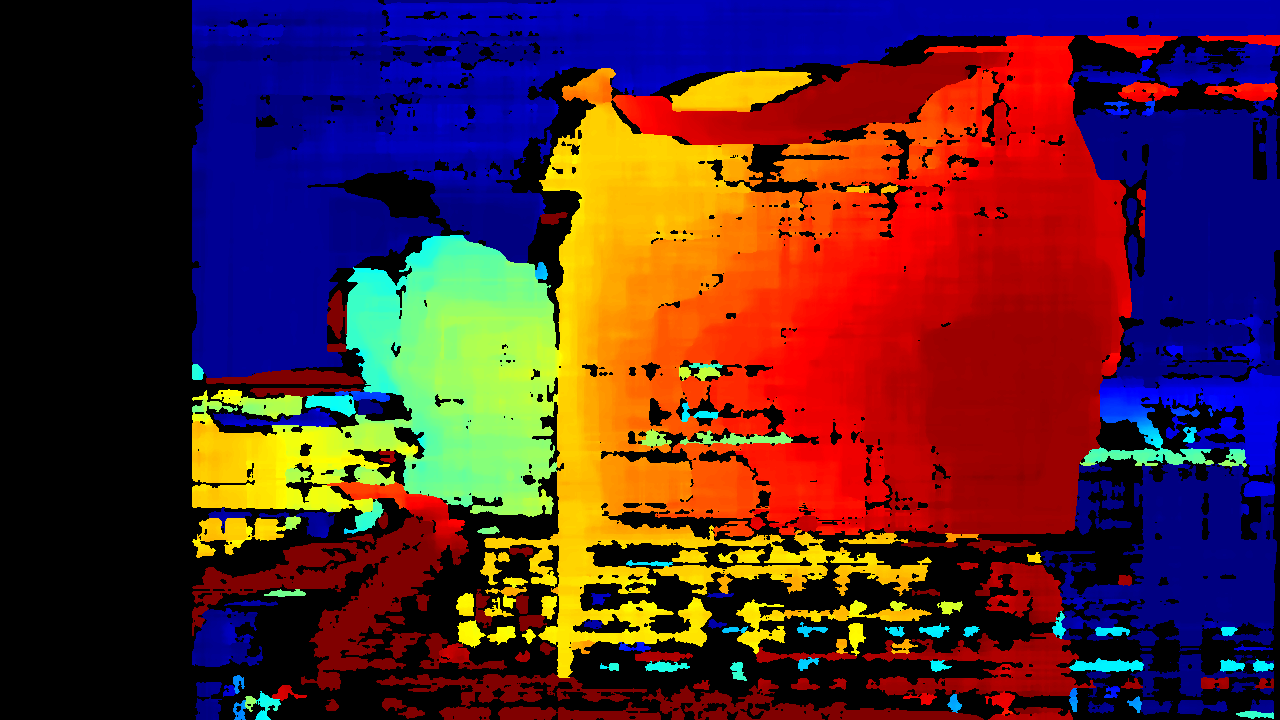
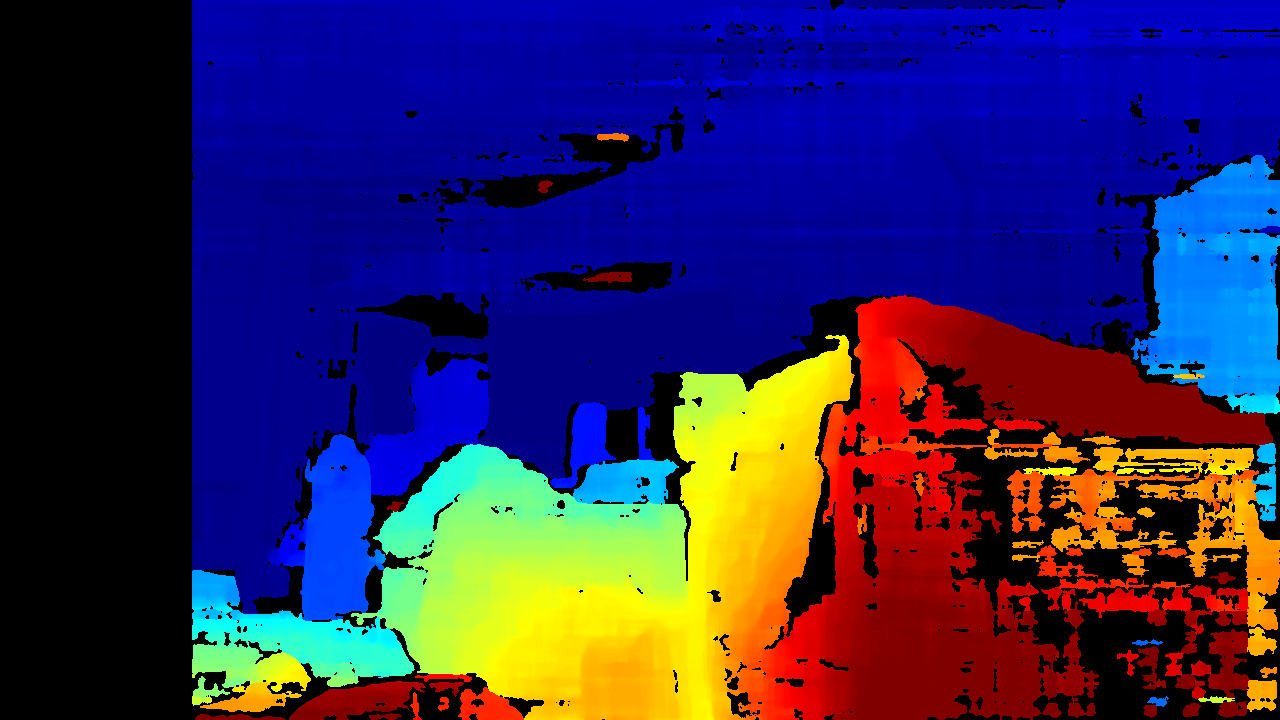
Add capture_depth.py for stereo IR pair capture and update test images

diff --git a/src/depth_map/capture_depth.py b/src/depth_map/capture_depth.py
@@ -1,0 +1,106 @@
+"""
+Capture a stereo IR pair from the RealSense D405 for depth mapping.
+
+Key difference from calibrate.py:
+    Here we keep the IR PROJECTOR ON. The projector throws an invisible dot
+    pattern onto the scene. That gives texture to blank surfaces (white bag,
+    shiny table) so the stereo matcher can actually find matches there. This
+    is the single biggest quality win for textureless scenes.
+
+    (calibrate.py turns the projector OFF, because the dots would ruin
+    chessboard detection. Opposite needs.)
+
+Run:
+    python capture_depth.py            # save one pair (overwrites test_images)
+    python capture_depth.py --avg 10   # average 10 frames -> less noise
+
+Then run the depth map:
+    python depth_map.py
+"""
+
+import argparse
+import os
+
+import numpy as np
+
+HERE = os.path.dirname(os.path.abspath(__file__))
+OUT_DIR = os.path.join(HERE, "test_images")
+WIDTH, HEIGHT = 1280, 720
+
+
+def capture(num_avg=1, preview=True):
+    import cv2
+    import pyrealsense2 as rs
+
+    os.makedirs(OUT_DIR, exist_ok=True)
+
+    pipe = rs.pipeline()
+    cfg = rs.config()
+    cfg.enable_stream(rs.stream.infrared, 1, WIDTH, HEIGHT, rs.format.y8, 30)
+    cfg.enable_stream(rs.stream.infrared, 2, WIDTH, HEIGHT, rs.format.y8, 30)
+    profile = pipe.start(cfg)
+
+    # --- Turn the IR projector ON (texture for matching) + max power ---
+    depth_sensor = profile.get_device().first_depth_sensor()
+    if depth_sensor.supports(rs.option.emitter_enabled):
+        depth_sensor.set_option(rs.option.emitter_enabled, 1)
+    if depth_sensor.supports(rs.option.laser_power):
+        rng = depth_sensor.get_option_range(rs.option.laser_power)
+        depth_sensor.set_option(rs.option.laser_power, rng.max)
+
+    print("Warming up sensor...")
+    for _ in range(15):           # let auto-exposure settle
+        pipe.wait_for_frames()
+
+    if preview:
+        print("Live preview. SPACE = capture, Q = quit without saving.")
+        captured = False
+        try:
+            while True:
+                f = pipe.wait_for_frames()
+                left = np.asanyarray(f.get_infrared_frame(1).get_data())
+                right = np.asanyarray(f.get_infrared_frame(2).get_data())
+                view = np.hstack([left, right])
+                cv2.imshow("D405 IR (L | R) - SPACE to capture", view)
+                key = cv2.waitKey(1) & 0xFF
+                if key == ord("q"):
+                    break
+                if key == ord(" "):
+                    captured = True
+                    break
+        finally:
+            cv2.destroyAllWindows()
+        if not captured:
+            pipe.stop()
+            print("Quit, nothing saved.")
+            return
+
+    # --- Grab and (optionally) average several frames to cut noise ---
+    accL = np.zeros((HEIGHT, WIDTH), np.float32)
+    accR = np.zeros((HEIGHT, WIDTH), np.float32)
+    for _ in range(num_avg):
+        f = pipe.wait_for_frames()
+        accL += np.asanyarray(f.get_infrared_frame(1).get_data())
+        accR += np.asanyarray(f.get_infrared_frame(2).get_data())
+    left = (accL / num_avg).astype(np.uint8)
+    right = (accR / num_avg).astype(np.uint8)
+    pipe.stop()
+
+    lp = os.path.join(OUT_DIR, "ir_left.png")
+    rp = os.path.join(OUT_DIR, "ir_right.png")
+    cv2.imwrite(lp, left)
+    cv2.imwrite(rp, right)
+    print(f"Saved {WIDTH}x{HEIGHT} pair (avg of {num_avg}):")
+    print(f"  {lp}")
+    print(f"  {rp}")
+    print("Now run:  python depth_map.py")
+
+
+if __name__ == "__main__":
+    p = argparse.ArgumentParser(description="Capture D405 IR pair (emitter ON)")
+    p.add_argument("--avg", type=int, default=1,
+                   help="average N frames to reduce noise (e.g. 10)")
+    p.add_argument("--no-preview", action="store_true",
+                   help="capture immediately, no live window")
+    args = p.parse_args()
+    capture(num_avg=args.avg, preview=not args.no_preview)